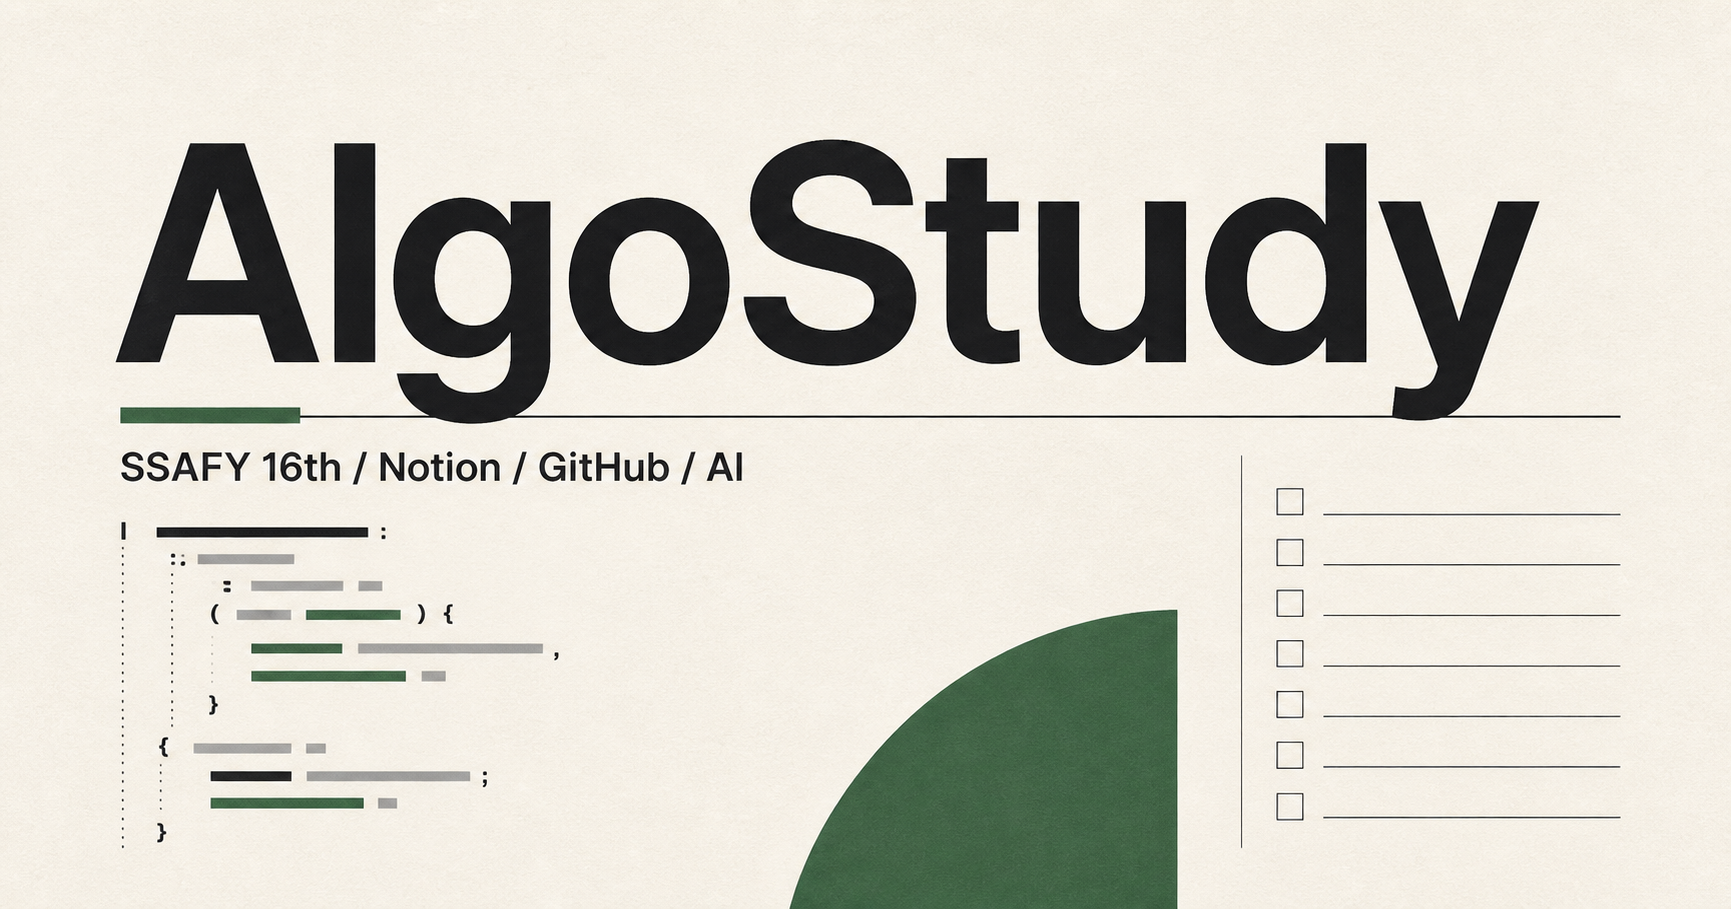
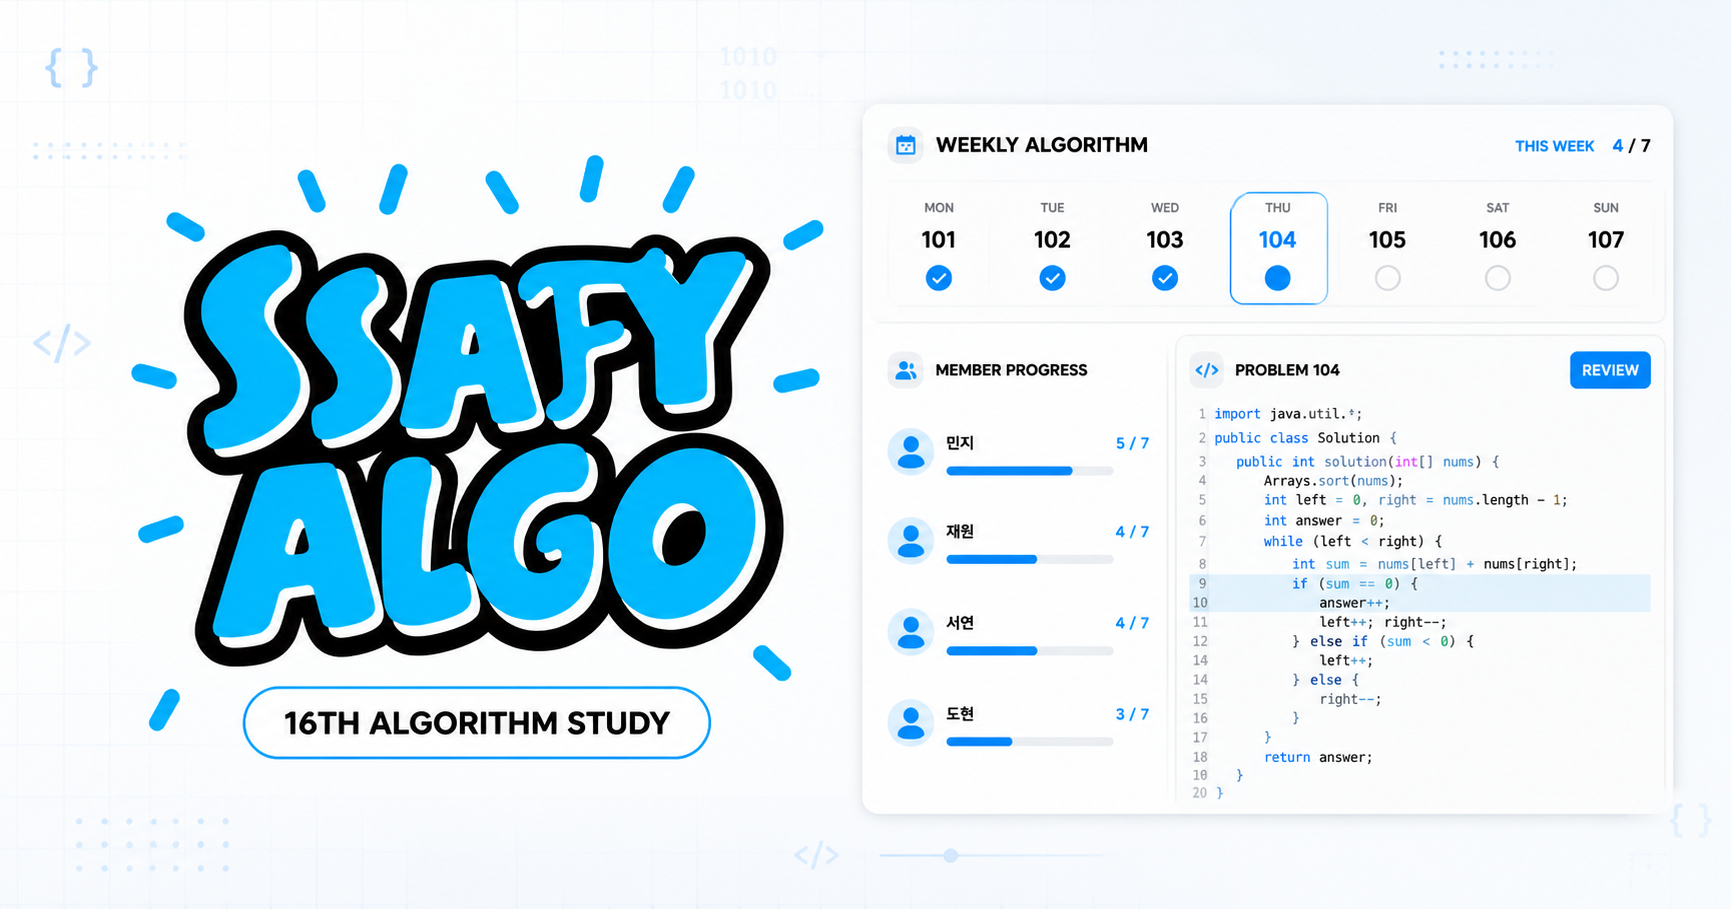
layout img 변경

diff --git a/app/layout.tsx b/app/layout.tsx
@@ -1,7 +1,7 @@
 import type { Metadata } from 'next';
 import './globals.css';
 
-const siteUrl = 'https://ssafy16-algostudy-agent.hyuck990324.chatgpt.site';
+const siteUrl = 'https://algo-study-agent.vercel.app';
 
 export const metadata: Metadata = {
   metadataBase: new URL(siteUrl),
@@ -17,7 +17,7 @@ export const metadata: Metadata = {
     description: 'Notion × GitHub × AI로 연결한 알고리즘 스터디 대시보드',
     url: siteUrl,
     siteName: 'SSAFY ALGO',
-    images: [{ url: '/og.png', width: 1730, height: 909, alt: 'AlgoStudy SSAFY 16th 대시보드' }],
+    images: [{ url: '/og.png', width: 1731, height: 909, alt: 'SSAFY ALGO 16기 알고리즘 스터디 플랫폼' }],
     locale: 'ko_KR',
     type: 'website',
   },
